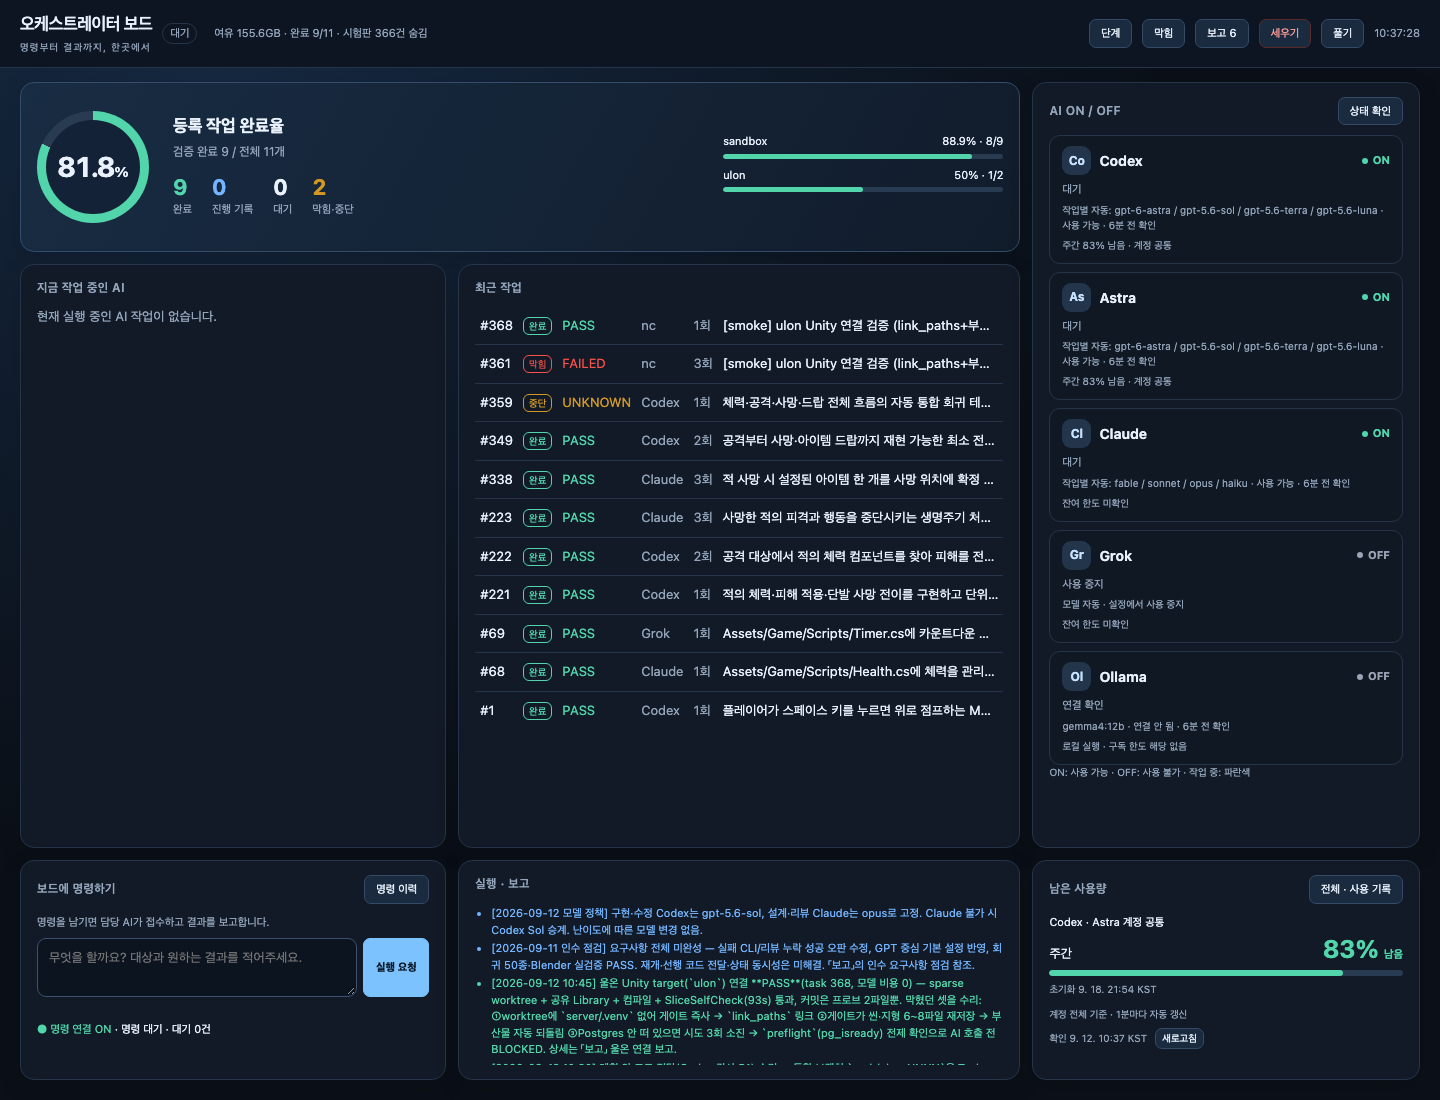
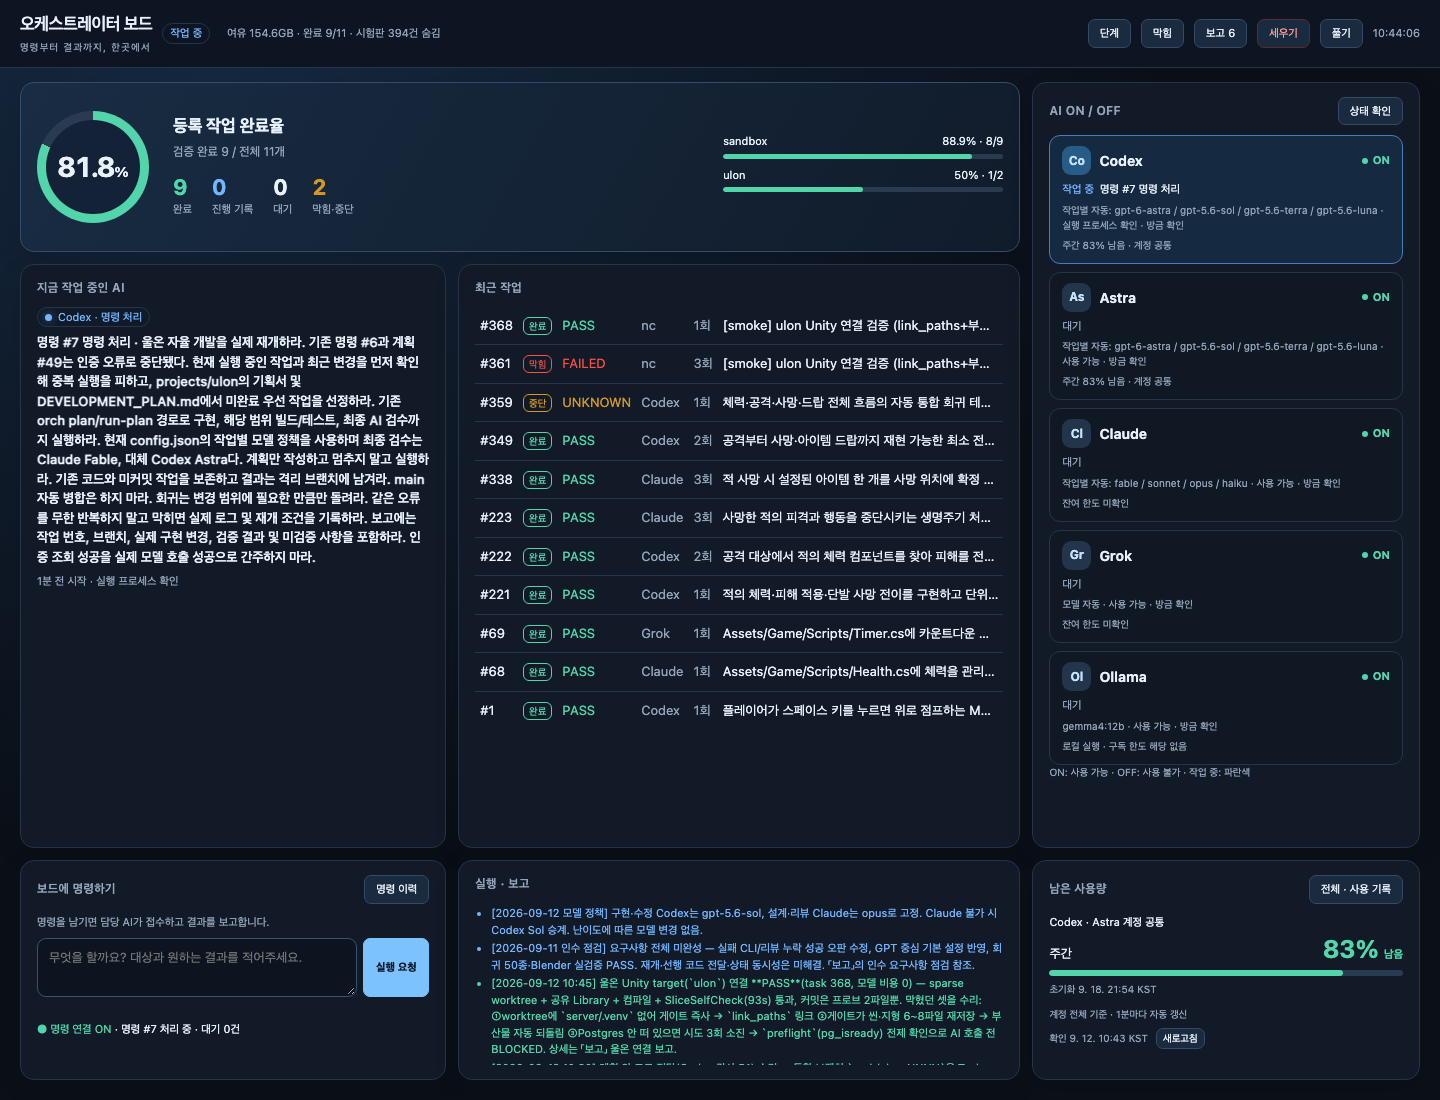
chore(orchestrator): Grok 재활성(오너 질문), 보드 실행 기록·스크린샷 갱신

diff --git a/projects/orchestrator/BOARD.md b/projects/orchestrator/BOARD.md
@@ -50,6 +50,7 @@
 - [2026-09-11 인수 점검] 요구사항 전체 미완성 — 실패 CLI/리뷰 누락 성공 오판 수정, GPT 중심 기본 설정 반영, 회귀 50종·Blender 실검증 PASS. 재개·선행 코드 전달·상태 동시성은 미해결. 「보고」의 인수 요구사항 점검 참조.
 - [x] [2026-09-12 10:45] 울온 Unity target(`ulon`) 연결 **PASS**(task 368, 모델 비용 0) — sparse worktree + 공유 Library + 컴파일 + SliceSelfCheck(93s) 통과, 커밋은 프로브 2파일뿐. 막혔던 셋을 수리: ①worktree에 `server/.venv` 없어 게이트 즉사 → `link_paths` 링크 ②게이트가 씬·지형 6~8파일 재저장 → 부산물 자동 되돌림 ③Postgres 안 떠 있으면 시도 3회 소진 → `preflight`(pg_isready) 전제 확인으로 AI 호출 전 BLOCKED. 상세는 「보고」 울온 연결 보고.
 - [x] [2026-09-12 10:30] 계획 안 코드 전달(Codex 감사 P1) 수리 — 통합 브랜치 `orch/plan-NNNN`을 Task PASS마다 전진, 다음 Task는 그 위에서 출발. NC `plan_inherit`·`preflight` 추가(46종).
+- [x] [2026-09-12 10:52] 오너 질문 「그록·올라마 왜 OFF」 — Ollama는 재부팅 뒤 앱이 안 떠 있어서(켬, 5종 전부 ON 확인), Grok은 Codex 인수 세션이 `enabled:false`로 꺼 둔 것(다시 켬 — 끄는 게 맞으면 한 줄 되돌림). 잔여 한도는 Codex 계정만 CLI로 읽힌다(주간 83%). Claude·Grok은 CLI가 한도를 안 내놓아 「미확인」이 정직한 표시 — Claude는 로그인 토큰으로 읽는 길이 있으나 오너 허락 필요.
 - [x] [2026-09-12 10:35] 재부팅으로 죽어 있던 Postgres 16 기동(울온 persist 서버 전제, launchd 아님 — 재부팅마다 손으로).
 - [x] [2026-09-11 23:28] 울온 Blender target(`ulon_props`) 연결 — 실제 모노레포 sparse worktree에서 PASS(task 356: 절구통+모루 자리표시, 0.9초)
 - [x] [2026-09-11 23:20] 모노레포 하위 폴더 target(subdir) + 프로젝트 자기 검사 게이트(execute_method) — NC 5종 PASS(밖으로 새는 쓰기를 잡는 구멍 하나 발견·수리)
